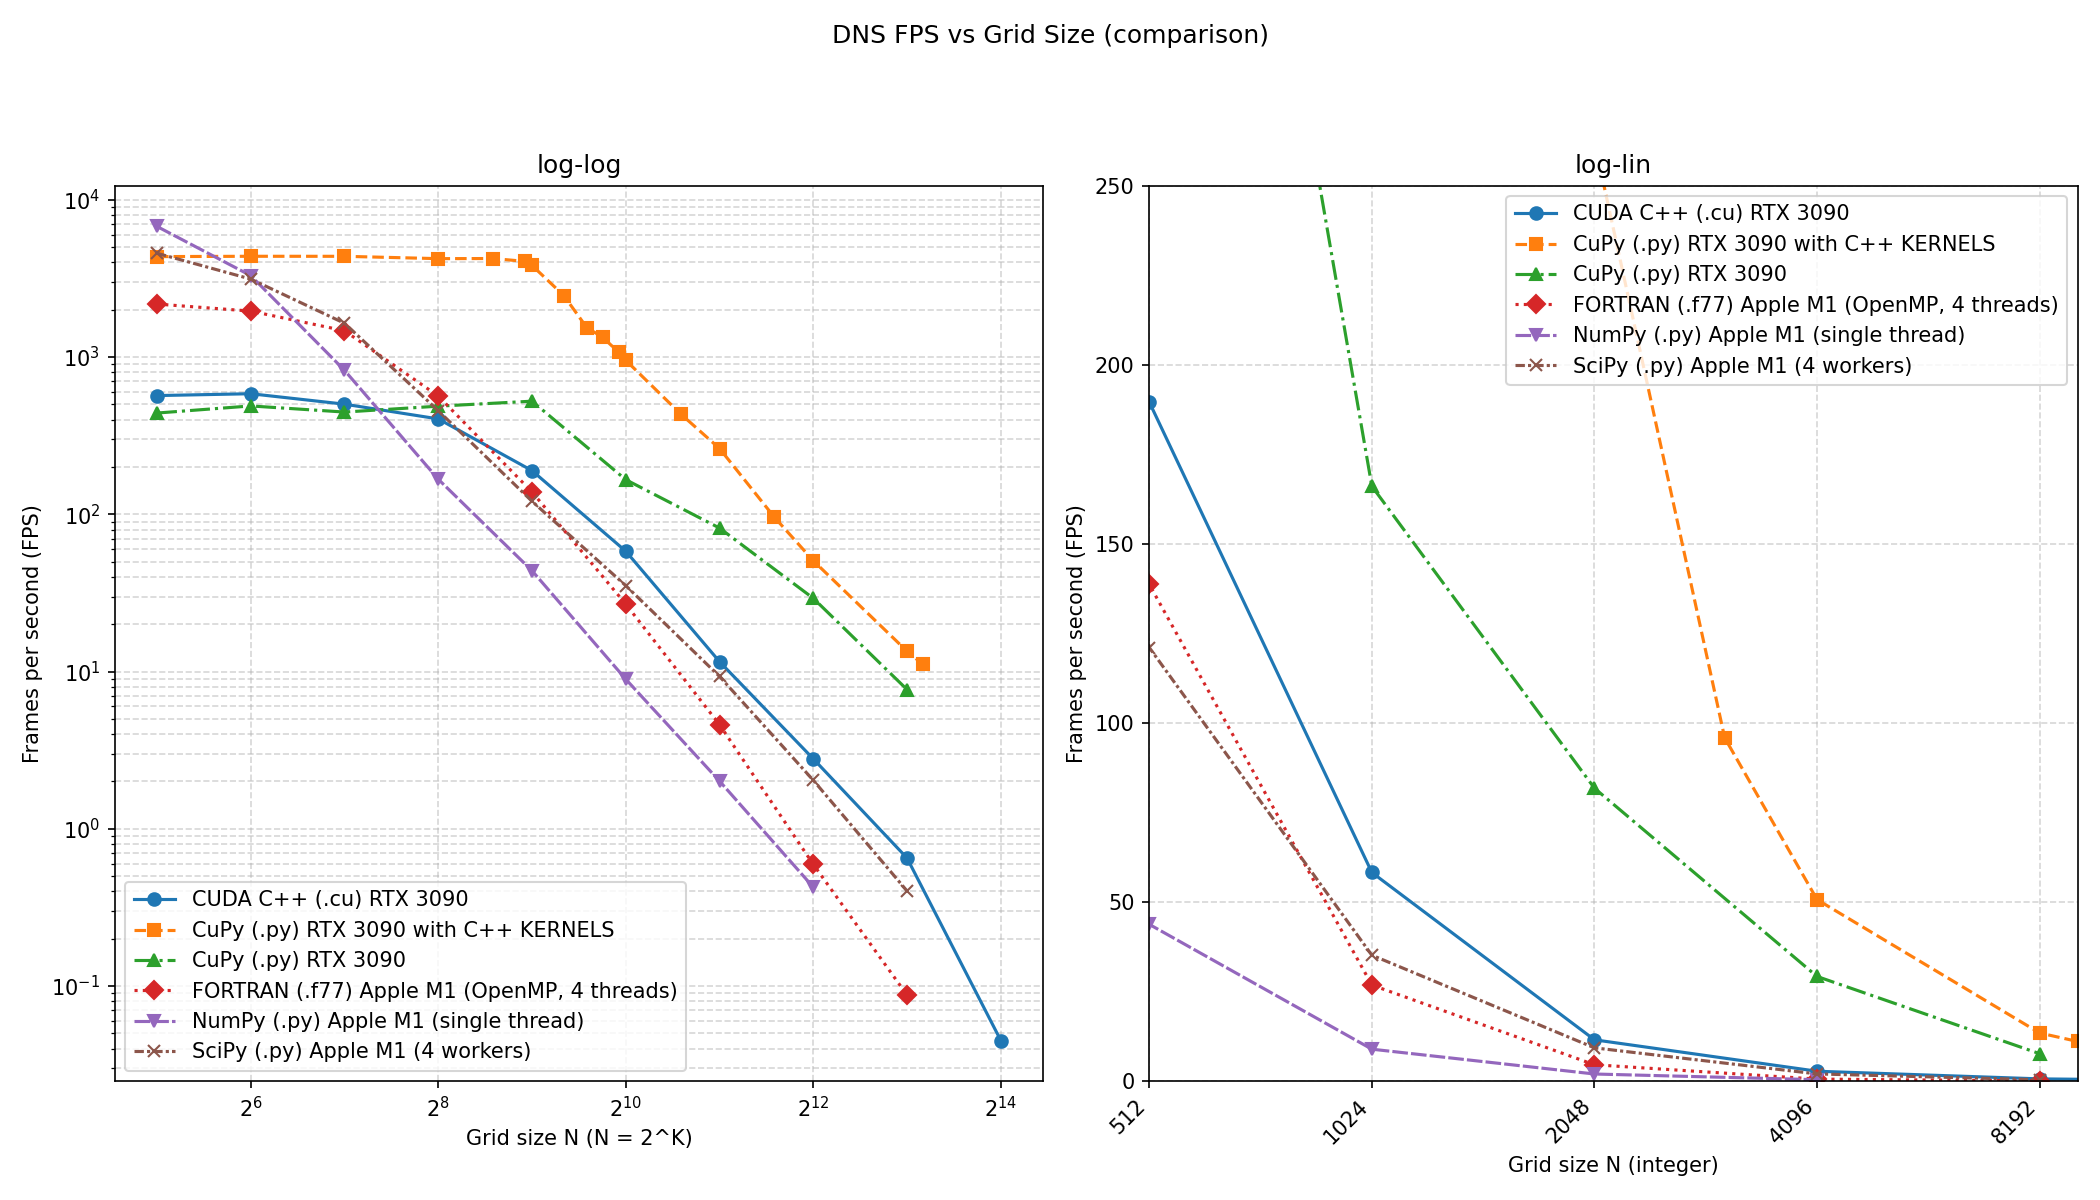
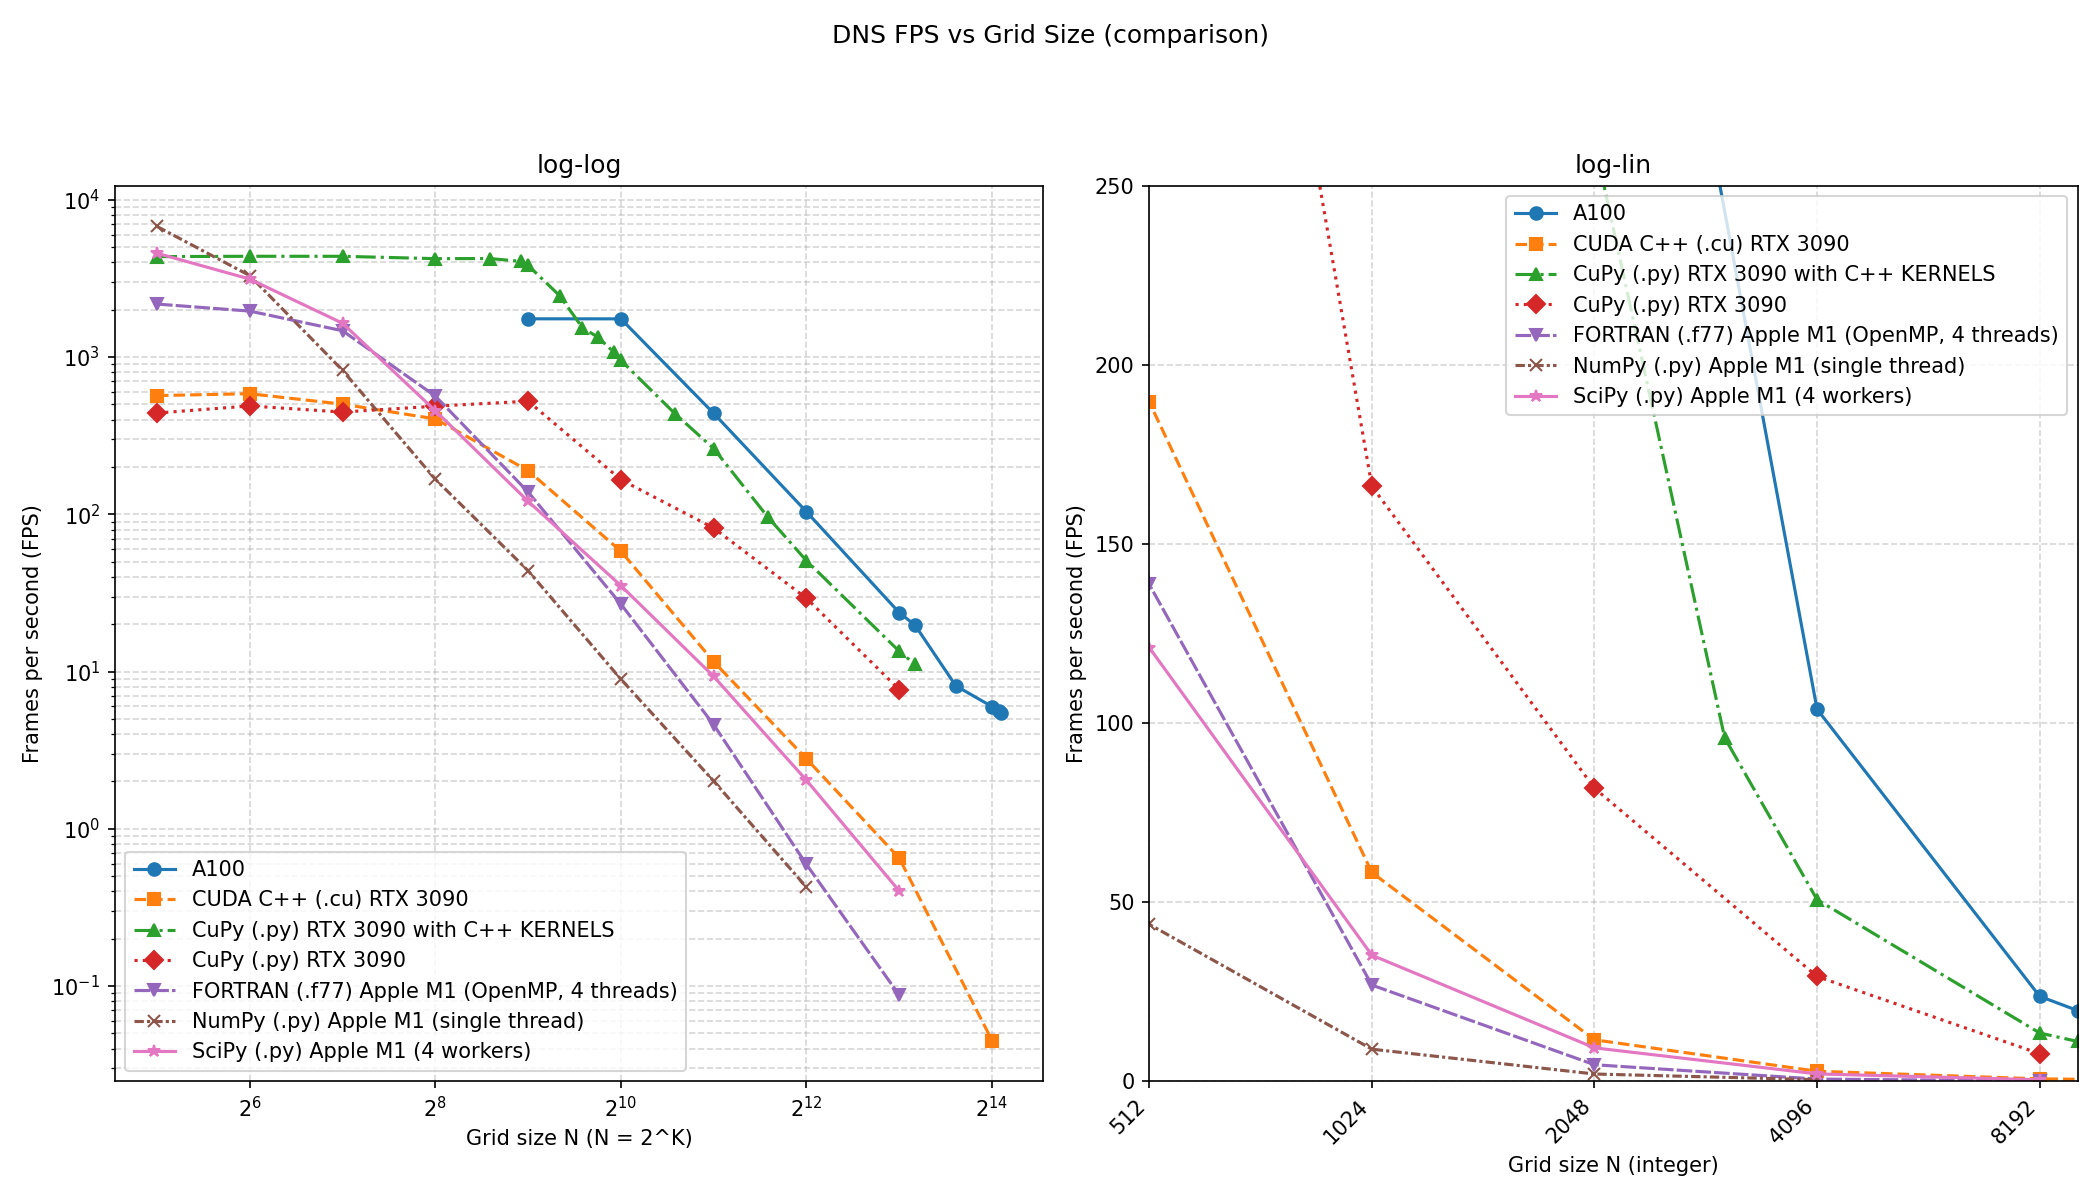
A100

diff --git a/fps/fps_compare.py b/fps/fps_compare.py
@@ -18,6 +18,7 @@ def label_from_filename(path: str) -> str:
     key = name.lower()
 
     label_map = {
+        "A100":    "CuPy (.py) A100 with C++ KERNELS",
         "cufft":   "CuPy (.py) RTX 3090 with C++ KERNELS",
         "cupy":    "CuPy (.py) RTX 3090",
         "cuda":    "CUDA C++ (.cu) RTX 3090",
